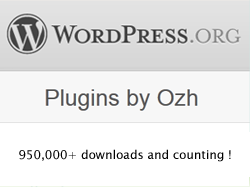
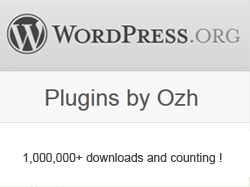
plugins.

Changed region(s): [[0.056, 0.8021, 0.924, 0.8824]]

diff --git a/index.php b/index.php
@@ -2,200 +2,200 @@
 <html lang='en' xml:lang='en' xmlns="http://www.w3.org/1999/xhtml">
 <head>
 <meta charset="utf-8" />
-	<!--
-			  _                      
-			 | |  All stuff free to steal. Check https://github.com/ozh/ozh.org if interested
-	  ___ ___| |__    ___  _ __ __ _ 
-	 / _ \_  / '_ \  / _ \| '__/ _` |
-	| (_) / /| | | || (_) | | | (_| |
-	 \___/___|_| |_(_)___/|_|  \__, |
-								__/ |
-							   |___/ 
-	-->
-	<title>Ozh RICHARD &laquo; ozh.org</title>
-	<link rel="stylesheet" href="css/reset.css" type="text/css" media="screen" />
-	<link rel="stylesheet" href="css/style.css" type="text/css" media="screen" />
-	<script src="https://ajax.googleapis.com/ajax/libs/jquery/1.9.0/jquery.min.js" type="text/javascript"></script>
-	<script src="http://code.jquery.com/ui/1.10.0/jquery-ui.js" type="text/javascript"></script>
-	<script src="js/script.js" type="text/javascript"></script>
-	<!--[if lte IE 9]>
-	<script src="http://ie7-js.googlecode.com/svn/version/2.1(beta4)/IE9.js"></script>
-	<style>
-	div.slidebox div.content{
-		width:250px;
-		height:300px;
-	}
-	</style>
-	<![endif]-->
+    <!--
+              _                      
+             | |  All stuff free to steal. Check https://github.com/ozh/ozh.org if interested
+      ___ ___| |__    ___  _ __ __ _ 
+     / _ \_  / '_ \  / _ \| '__/ _` |
+    | (_) / /| | | || (_) | | | (_| |
+     \___/___|_| |_(_)___/|_|  \__, |
+                                __/ |
+                               |___/ 
+    -->
+    <title>Ozh RICHARD &laquo; ozh.org</title>
+    <link rel="stylesheet" href="css/reset.css" type="text/css" media="screen" />
+    <link rel="stylesheet" href="css/style.css" type="text/css" media="screen" />
+    <script src="https://ajax.googleapis.com/ajax/libs/jquery/1.9.0/jquery.min.js" type="text/javascript"></script>
+    <script src="http://code.jquery.com/ui/1.10.0/jquery-ui.js" type="text/javascript"></script>
+    <script src="js/script.js" type="text/javascript"></script>
+    <!--[if lte IE 9]>
+    <script src="http://ie7-js.googlecode.com/svn/version/2.1(beta4)/IE9.js"></script>
+    <style>
+    div.slidebox div.content{
+        width:250px;
+        height:300px;
+    }
+    </style>
+    <![endif]-->
 </head>
 <body>
 
 <div id="container">
 
-	<div id="about" class="slidebox">
-			<h1 class="slide"><span>Ozh's Portfolio of Personal Projects and Online Presences</span></h1>
-			<h2 class="content"><span>Here is what I'm about during my hobby time.<br/>Mostly geek stuff, I'm afraid <span id="smiley" title=":-)">&#12484;</span></span></h2>
-	</div>
+    <div id="about" class="slidebox">
+            <h1 class="slide"><span>Ozh's Portfolio of Personal Projects and Online Presences</span></h1>
+            <h2 class="content"><span>Here is what I'm about during my hobby time.<br/>Mostly geek stuff, I'm afraid <span id="smiley" title=":-)">&#12484;</span></span></h2>
+    </div>
 
-	<?php
-	$boxes = array(
-		'scrim' => array(
-			'title'=> 'scr.im',
-			'img'  => 'scrim.jpg',
-			'url'  => 'http://scr.im/',
-			'desc' => 'A nice little site that transform your long ugly email address into a <span class="highlight">cute short URL</span> that is <span class="highlight">safe</span> and spambot-proof to share on Twitter, Facebook and other sites. Sold in 2010.',
-			'type' => 'project',
-		),
-		'twtbg' => array(
-			'title'=> 'Twt BG',
-			'img'  => 'twtbgme.jpg',
-			'url'  => 'http://twtbg.me/',
-			'desc' => 'Does your <span class="highlight">Twitter profile</span> look like poo on bigger or smaller resolutions? Cropped background, lots of white space? Check now.',
-			'type' => 'project',
-		),
-		'ozh1' => array(
-			'title'=> 'Contact',
-			'img'  => 'ozh1.jpg',
-			'url'  => '',
-			'desc' => 'If it\'s not a support question of any kind, be my guest and <span class="highlight">contact me</span>. Send an email to <span class="highlight">ozh</span> at this domain.</p><p>(for support, please refer to where you got the product)',
-			'type' => 'bio',
-		),
-		'ozh2' => array(
-			'title'=> 'Geek Skills',
-			'img'  => 'ozh2.jpg',
-			'url'  => '',
-			'desc' => 'I speak <span class="highlight">PHP</span> and <span class="highlight">jQuery</span>. I make <span class="highlight">WordPress</span> and <span class="highlight">YOURLS</span> my bitches.</p><p>If not napping in the grass I may be available for freelancing. If the project sounds fun :)',
-			'type' => 'bio',
-		),
-		'ozh3' => array(
-			'title'=> 'Life, AFK',
-			'img'  => 'ozh3.jpg',
-			'url'  => '',
-			'desc' => 'When not coding and playing <span class="highlight">Quake</span>, I try to spend time far away from computers. One of the thing I love the most is... <span class="highlight">wine</span>. Oh my god so many celestial flavors to taste and discover!',
-			'type' => 'bio',
-		),
-		/**
-		'ozh4' => array(
-			'title'=> 'Underwater bubbles',
-			'img'  => 'ozh4.jpg',
-			'url'  => '',
-			'desc' => 'In the summer I usually say Good Bye to my computer and go for a <span class="highlight">zen dive</span>, deep down the big blue.</p><p>Best places I\'ve been to: the Red Sea and New Caledonia.',
-			'type' => 'bio',
-		),
-		/**/
-		'yourls' => array(
-			'title'=> 'YOURLS',
-			'img'  => 'yourls.jpg',
-			'url'  => 'http://yourls.org/',
-			'desc' => 'YOURLS is <span class="highlight">Your Own URL Shortener</span>, a free, Open Source self-hosted URL shrinker (like bit.ly) written in PHP. Stats, plugins, API: it has everything.',
-			'type' => 'project',
-		),
-		'blog' => array(
-			'title'=> 'planetOzh',
-			'img'  => 'blog.jpg',
-			'url'  => 'http://planetozh.com/blog/',
-			'desc' => 'My <span class="highlight">blog</span>. A bit about my life and a lot of code projects. I am somehow well known in the WordPress community and I have released a number of plugins and tutorials.',
-			'type' => 'project',
-		),
-		'fff' => array(
-			'title'=> 'French Frag Factory',
-			'img'  => 'fff.jpg',
-			'url'  => 'http://frenchfragfactory.net/',
-			'desc' => 'I have founded and manage the biggest French speaking community site about <span class="highlight">Quake</span>.</p><p><em>Est. 1999</em>. Not for the noobz.',
-			'type' => 'project',
-		),
-		/**
-		'lastfm' => array(
-			'title'=> 'last.fm',
-			'img'  => 'lastfm.jpg',
-			'url'  => 'http://last.fm/user/-ozh-',
-			'desc' => 'My profile on <span class="highlight">Last.fm</span>, the best music site around, definitely.</p><p>Favorite band of all time: <span class="highlight">Suicidal Tendencies</span>.',
-			'type' => 'presence',
-		),
-		/**/
-		'github' => array(
-			'title'=> 'Github',
-			'img'  => 'github.png',
-			'url'  => 'https://github.com/ozh',
-			'desc' => 'A lot of my code is on <span class="highlight">Github</span>, especially everything about <span class="highlight">YOURLS</span>. Follow me!',
-			'type' => 'presence',
-		),
-		'plugindevbook' => array(
-			'title'=> '<a href="http://amzn.to/plugindevbook"><img id="plugindevbook-cover" src="img/plugindevbook-cover.jpg" alt="WordPress Plugin Development"></a>',
-			'img'  => 'plugindevbook-logo.jpg',
-			'url'  => '',
-			'desc' => 'I wrote a book! Hobbyist, amateurs, web agencies, freelancers: all about <strong><a href="http://amzn.to/plugindevbook">WordPress Plugin Development</a></strong>',
-			'type' => 'project',
-		),
-		'twitter' => array(
-			'title'=> '@ozh',
-			'img'  => 'twitter.jpg',
-			'url'  => 'http://twitter.com/ozh',
-			'desc' => 'My <span class="highlight">Twitter account</span>. Mostly about WordPress and YOURLS, and the everyday geekitude.',
-			'type' => 'presence',
-		),
-		'facebook' => array(
-			'title'=> 'Facebook',
-			'img'  => 'facebook.png',
-			'url'  => 'https://www.facebook.com/ozh.richard',
-			'desc' => 'Yeah, of course, I\'m on Facebook. I\'m not very active there and that is mostly for people que je connais pour de vrai but feel free to say "hi!"',
-			'type' => 'presence',
-		),
-		'plugins' => array(
-			'title'=> 'WordPress Plugins',
-			'img'  => 'plugins.png',
-			'url'  => 'http://profiles.wordpress.org/ozh',
-			'desc' => 'I released a lot of <span class="highlight">free plugins</span> to make your everyday life with WordPress easier. On the road to <span class="highlight">one million downloads</span>!',
-			'type' => 'project',
-		),
-		'tshirt' => array(
-			'title'=> 'T-Shirts',
-			'img'  => 'tshirts.png',
-			'url'  => 'http://www.redbubble.com/people/ozhy',
-			'desc' => 'For fun I create <span class="highlight">t-shirts</span>. It started as a few geek stuff made for myself, ended up as several collections. Quality products from RedBubble.',
-			'type' => 'project',
-		),
-		
-	);
-	
-	shuffle( $boxes );
-	
-	foreach( $boxes as $id => $box ) {
-		extract( $box );
+    <?php
+    $boxes = array(
+        'scrim' => array(
+            'title'=> 'scr.im',
+            'img'  => 'scrim.jpg',
+            'url'  => 'http://scr.im/',
+            'desc' => 'A nice little site that transform your long ugly email address into a <span class="highlight">cute short URL</span> that is <span class="highlight">safe</span> and spambot-proof to share on Twitter, Facebook and other sites. Sold in 2010.',
+            'type' => 'project',
+        ),
+        'twtbg' => array(
+            'title'=> 'Twt BG',
+            'img'  => 'twtbgme.jpg',
+            'url'  => 'http://twtbg.me/',
+            'desc' => 'Does your <span class="highlight">Twitter profile</span> look like poo on bigger or smaller resolutions? Cropped background, lots of white space? Check now.',
+            'type' => 'project',
+        ),
+        'ozh1' => array(
+            'title'=> 'Contact',
+            'img'  => 'ozh1.jpg',
+            'url'  => '',
+            'desc' => 'If it\'s not a support question of any kind, be my guest and <span class="highlight">contact me</span>. Send an email to <span class="highlight">ozh</span> at this domain.</p><p>(for support, please refer to where you got the product)',
+            'type' => 'bio',
+        ),
+        'ozh2' => array(
+            'title'=> 'Geek Skills',
+            'img'  => 'ozh2.jpg',
+            'url'  => '',
+            'desc' => 'I speak <span class="highlight">PHP</span> and <span class="highlight">jQuery</span>. I make <span class="highlight">WordPress</span> and <span class="highlight">YOURLS</span> my bitches.</p><p>If not napping in the grass I may be available for freelancing. If the project sounds fun :)',
+            'type' => 'bio',
+        ),
+        'ozh3' => array(
+            'title'=> 'Life, AFK',
+            'img'  => 'ozh3.jpg',
+            'url'  => '',
+            'desc' => 'When not coding and playing <span class="highlight">Quake</span>, I try to spend time far away from computers. One of the thing I love the most is... <span class="highlight">wine</span>. Oh my god so many celestial flavors to taste and discover!',
+            'type' => 'bio',
+        ),
+        /**
+        'ozh4' => array(
+            'title'=> 'Underwater bubbles',
+            'img'  => 'ozh4.jpg',
+            'url'  => '',
+            'desc' => 'In the summer I usually say Good Bye to my computer and go for a <span class="highlight">zen dive</span>, deep down the big blue.</p><p>Best places I\'ve been to: the Red Sea and New Caledonia.',
+            'type' => 'bio',
+        ),
+        /**/
+        'yourls' => array(
+            'title'=> 'YOURLS',
+            'img'  => 'yourls.jpg',
+            'url'  => 'http://yourls.org/',
+            'desc' => 'YOURLS is <span class="highlight">Your Own URL Shortener</span>, a free, Open Source self-hosted URL shrinker (like bit.ly) written in PHP. Stats, plugins, API: it has everything.',
+            'type' => 'project',
+        ),
+        'blog' => array(
+            'title'=> 'planetOzh',
+            'img'  => 'blog.jpg',
+            'url'  => 'http://planetozh.com/blog/',
+            'desc' => 'My <span class="highlight">blog</span>. A bit about my life and a lot of code projects. I am somehow well known in the WordPress community and I have released a number of plugins and tutorials.',
+            'type' => 'project',
+        ),
+        'fff' => array(
+            'title'=> 'French Frag Factory',
+            'img'  => 'fff.jpg',
+            'url'  => 'http://frenchfragfactory.net/',
+            'desc' => 'I have founded and manage the biggest French speaking community site about <span class="highlight">Quake</span>.</p><p><em>Est. 1999</em>. Not for the noobz.',
+            'type' => 'project',
+        ),
+        /**
+        'lastfm' => array(
+            'title'=> 'last.fm',
+            'img'  => 'lastfm.jpg',
+            'url'  => 'http://last.fm/user/-ozh-',
+            'desc' => 'My profile on <span class="highlight">Last.fm</span>, the best music site around, definitely.</p><p>Favorite band of all time: <span class="highlight">Suicidal Tendencies</span>.',
+            'type' => 'presence',
+        ),
+        /**/
+        'github' => array(
+            'title'=> 'Github',
+            'img'  => 'github.png',
+            'url'  => 'https://github.com/ozh',
+            'desc' => 'A lot of my code is on <span class="highlight">Github</span>, especially everything about <span class="highlight">YOURLS</span>. Follow me!',
+            'type' => 'presence',
+        ),
+        'plugindevbook' => array(
+            'title'=> '<a href="http://amzn.to/plugindevbook"><img id="plugindevbook-cover" src="img/plugindevbook-cover.jpg" alt="WordPress Plugin Development"></a>',
+            'img'  => 'plugindevbook-logo.jpg',
+            'url'  => '',
+            'desc' => 'I wrote a book! Hobbyist, amateurs, web agencies, freelancers: all about <strong><a href="http://amzn.to/plugindevbook">WordPress Plugin Development</a></strong>',
+            'type' => 'project',
+        ),
+        'twitter' => array(
+            'title'=> '@ozh',
+            'img'  => 'twitter.jpg',
+            'url'  => 'http://twitter.com/ozh',
+            'desc' => 'My <span class="highlight">Twitter account</span>. Mostly about WordPress and YOURLS, and the everyday geekitude.',
+            'type' => 'presence',
+        ),
+        'facebook' => array(
+            'title'=> 'Facebook',
+            'img'  => 'facebook.png',
+            'url'  => 'https://www.facebook.com/ozh.richard',
+            'desc' => 'Yeah, of course, I\'m on Facebook. I\'m not very active there and that is mostly for people que je connais pour de vrai but feel free to say "hi!"',
+            'type' => 'presence',
+        ),
+        'plugins' => array(
+            'title'=> 'WordPress Plugins',
+            'img'  => 'plugins.png',
+            'url'  => 'http://profiles.wordpress.org/ozh',
+            'desc' => 'I released a lot of <span class="highlight">free plugins</span> to make your everyday life with WordPress easier. More than <span class="highlight">one million downloads</span>!',
+            'type' => 'project',
+        ),
+        'tshirt' => array(
+            'title'=> 'T-Shirts',
+            'img'  => 'tshirts.png',
+            'url'  => 'http://www.redbubble.com/people/ozhy',
+            'desc' => 'For fun I create <span class="highlight">t-shirts</span>. It started as a few geek stuff made for myself, ended up as several collections. Quality products from RedBubble.',
+            'type' => 'project',
+        ),
+        
+    );
+    
+    shuffle( $boxes );
+    
+    foreach( $boxes as $id => $box ) {
+        extract( $box );
 
-		if( $desc )
-			$desc = nl2br( $desc );
-		?>
-		<div class="slidebox <?php echo $type;?>" id="<?php echo $id; ?>">
-			<img class="hideme" src="img/<?php echo $img; ?>" alt="<?php echo strip_tags($title); ?>" />
-			<div style="background:url(img/<?php echo $img; ?>)" class="slide"></div>
+        if( $desc )
+            $desc = nl2br( $desc );
+        ?>
+        <div class="slidebox <?php echo $type;?>" id="<?php echo $id; ?>">
+            <img class="hideme" src="img/<?php echo $img; ?>" alt="<?php echo strip_tags($title); ?>" />
+            <div style="background:url(img/<?php echo $img; ?>)" class="slide"></div>
 
-			<div class="content">
-				<h3><?php if ($url) echo "<a href='$url'>"; ?><?php echo $title; ?><?php if ($url) echo "</a>"; ?></h3>
-				<?php if ($desc) echo "<p>$desc</p>"; ?>
-				<?php if ($url) echo "<p class='visit'>Visit <a href='$url'>$title</a></p>"; ?>
-			</div>
-		</div><!--end slideBox-->
-		
-		
-	<?php } ?>
+            <div class="content">
+                <h3><?php if ($url) echo "<a href='$url'>"; ?><?php echo $title; ?><?php if ($url) echo "</a>"; ?></h3>
+                <?php if ($desc) echo "<p>$desc</p>"; ?>
+                <?php if ($url) echo "<p class='visit'>Visit <a href='$url'>$title</a></p>"; ?>
+            </div>
+        </div><!--end slideBox-->
+        
+        
+    <?php } ?>
 
 </div>
 
 <div id="footer">
 
-	<div id="likebutton" class="more">
-	<iframe src="http://www.facebook.com/plugins/like.php?href=http%3A%2F%2Fozh.org%2F&amp;layout=standard&amp;show_faces=false&amp;width=400&amp;action=like&amp;font=verdana&amp;colorscheme=light&amp;height=35" scrolling="no" frameborder="0" style="border:none; overflow:hidden; width:400px; height:35px; color:white;" allowTransparency="true"></iframe>
-	</div>
+    <div id="likebutton" class="more">
+    <iframe src="http://www.facebook.com/plugins/like.php?href=http%3A%2F%2Fozh.org%2F&amp;layout=standard&amp;show_faces=false&amp;width=400&amp;action=like&amp;font=verdana&amp;colorscheme=light&amp;height=35" scrolling="no" frameborder="0" style="border:none; overflow:hidden; width:400px; height:35px; color:white;" allowTransparency="true"></iframe>
+    </div>
 
-	<div id="display_controls" class="more">
-		<p>Too much stuff? Display type: 
-		<span class="shown">project</span>
-		<span class="shown">bio</span>
-		<span class="shown">presence</span>
-		</p>
-	</div>
-	
+    <div id="display_controls" class="more">
+        <p>Too much stuff? Display type: 
+        <span class="shown">project</span>
+        <span class="shown">bio</span>
+        <span class="shown">presence</span>
+        </p>
+    </div>
+    
 </div>
 
 
